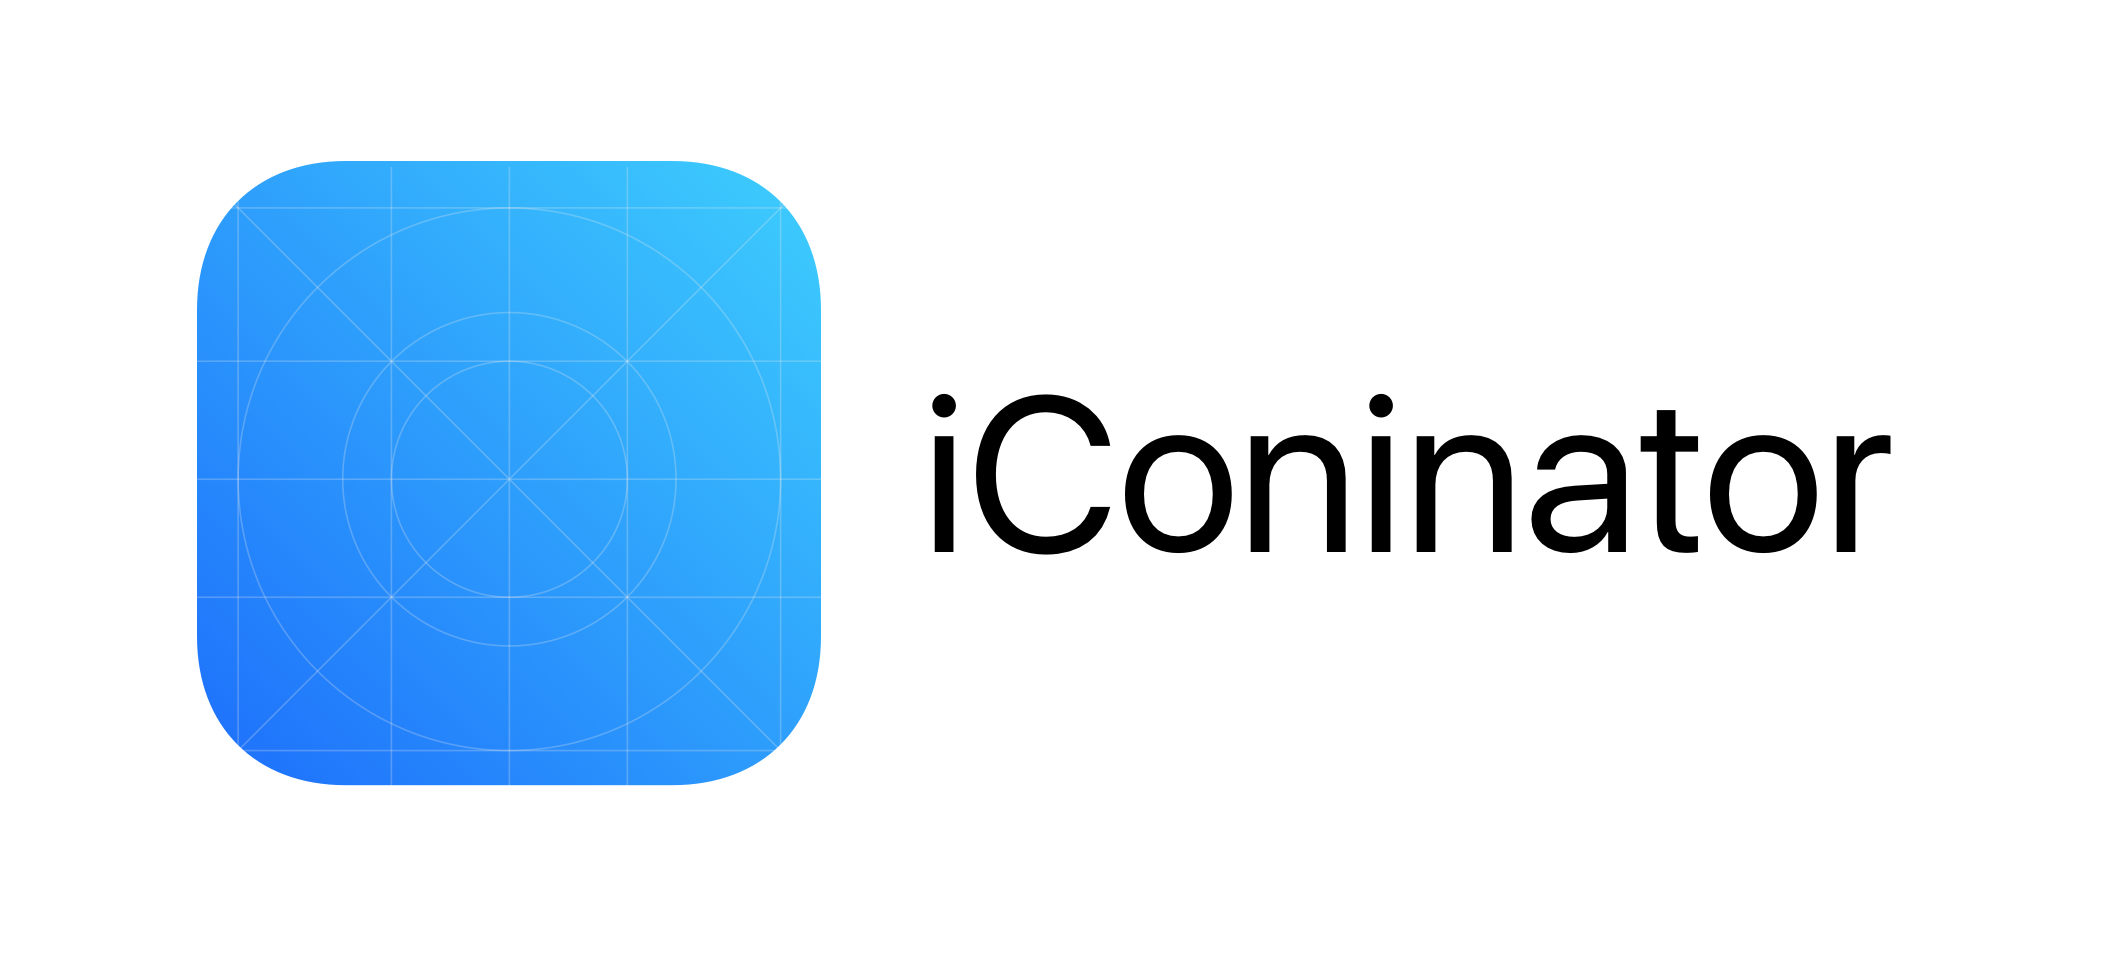
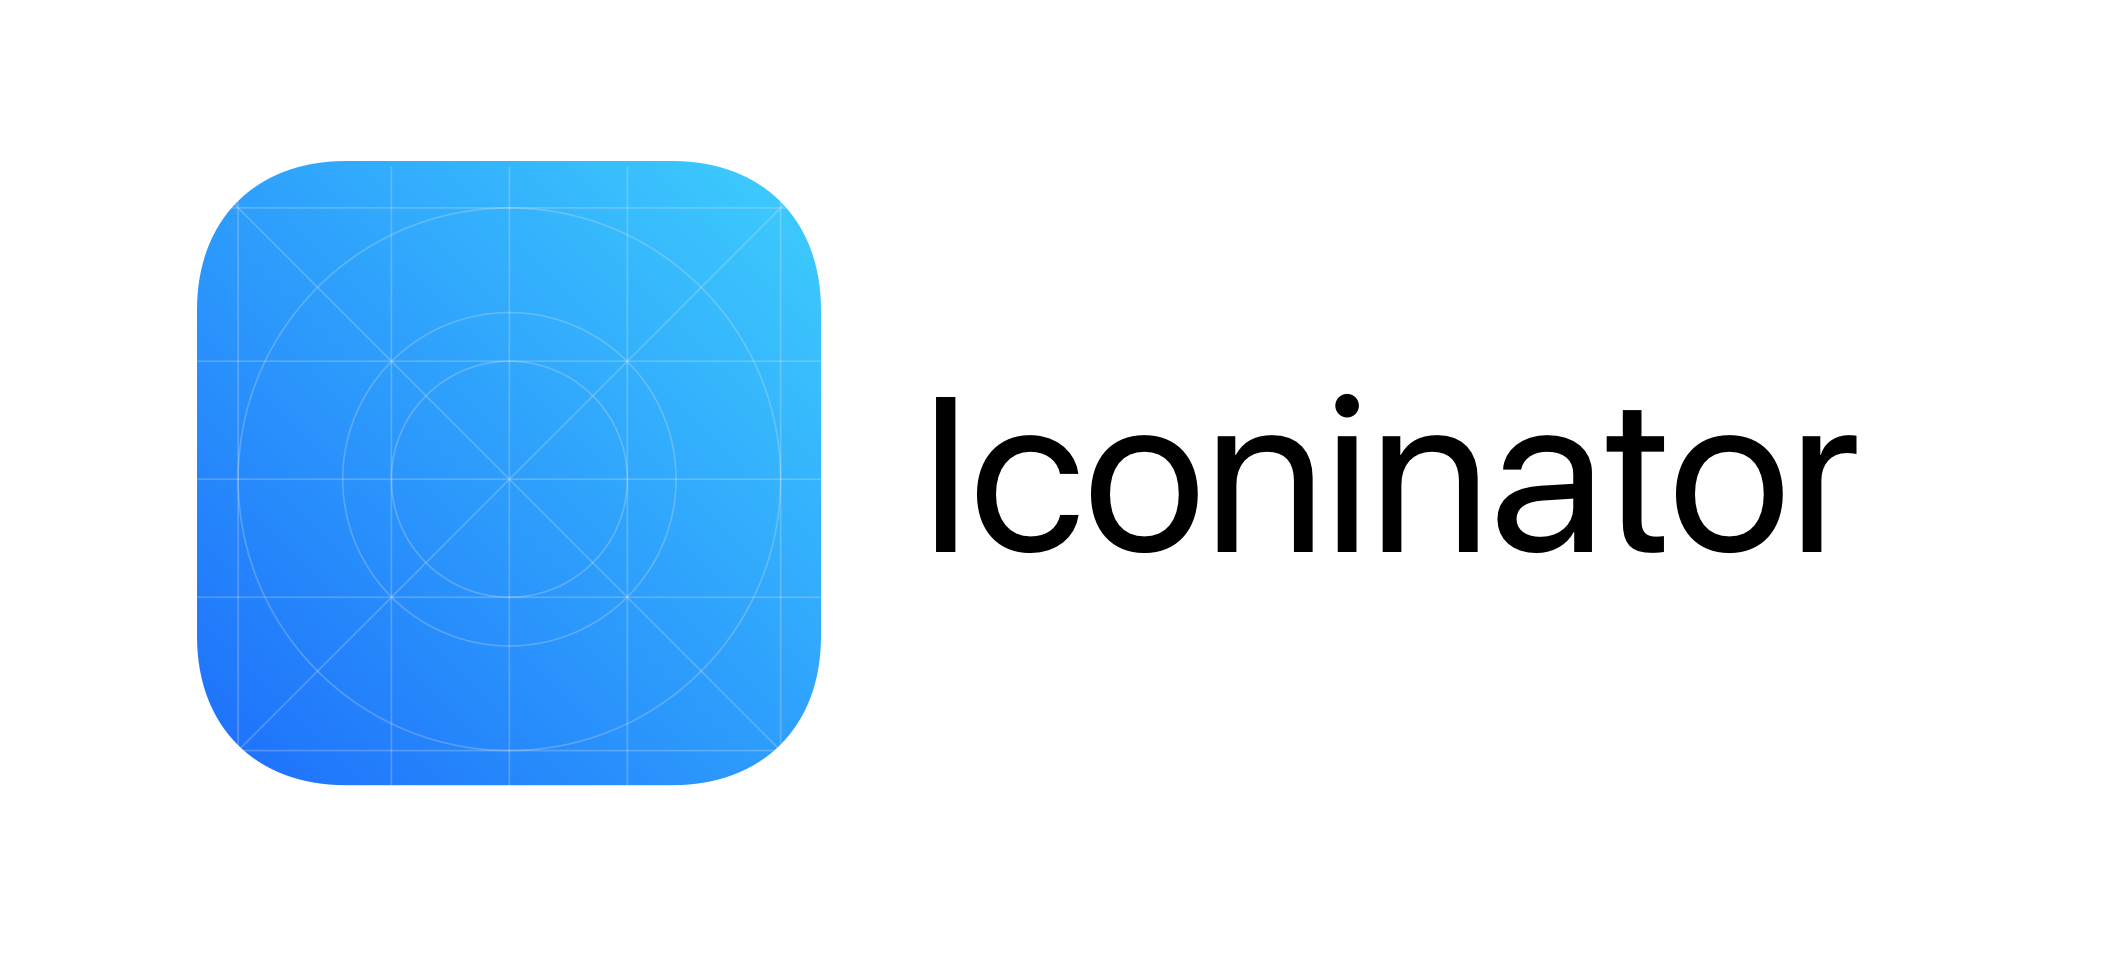
Update branding (second try)

Changed region(s): [[0.4348, 0.4054, 0.9007, 0.5925]]

diff --git a/README.md b/README.md
@@ -1,30 +1,30 @@
-# iConinator for Sketch
+# Iconinator for Sketch
 
 > *A project brought to you by [Agisilaos Tsaraboulidis](https://twitter.com/agisilaosts)*
 
-iConinator is a Sketch plugin that provides a means to generate a set of App icons for iOS.
+Iconinator is a Sketch plugin that provides a means to generate a set of App icons for iOS.
 
 :package: [Download Plugin (.zip)](https://github.com/agisilaos/iCons-for-Sketch/releases/tag/1.0.0) | :star: [Changelog](https://github.com/agisilaos/iCons-for-Sketch/releases) |
 --- | --- |
 
-![](Images/iConinator.png)
+![](Images/Iconinator.png)
 
 # Installation
 
 ### Method 1: Sketch Toolbox
 
-Using [Sketch Toolbox](http://sketchtoolbox.com/), search for 'iConinator' and install. Doing so will enable you to automatically receive any updates to Fluid without having to manually do so.
+Using [Sketch Toolbox](http://sketchtoolbox.com/), search for 'Iconinator' and install. Doing so will enable you to automatically receive any updates to Fluid without having to manually do so.
 
 ### Method 2: Manually
 
 1. Download the `.zip` above and extract it.
-2. Double-click `iConinator.sketchplugin`.
+2. Double-click `Iconinator.sketchplugin`.
 3. Restart Sketch
 4. Enjoy
 
 # Updating
 
-1. After updating iConinator (whether manually or via Sketch Toolbox) restart Sketch to receive goodness.
+1. After updating Iconinator (whether manually or via Sketch Toolbox) restart Sketch to receive goodness.
 
 # Features
 
@@ -34,7 +34,7 @@ Using [Sketch Toolbox](http://sketchtoolbox.com/), search for 'iConinator' and i
 
 1. Select an artboard with the icon that you want to generate
 2. Click the `plugins` menu
-3. Find and click `iConinator`
+3. Find and click `Iconinator`
 4. Tada 🎉
 
 # Contact
